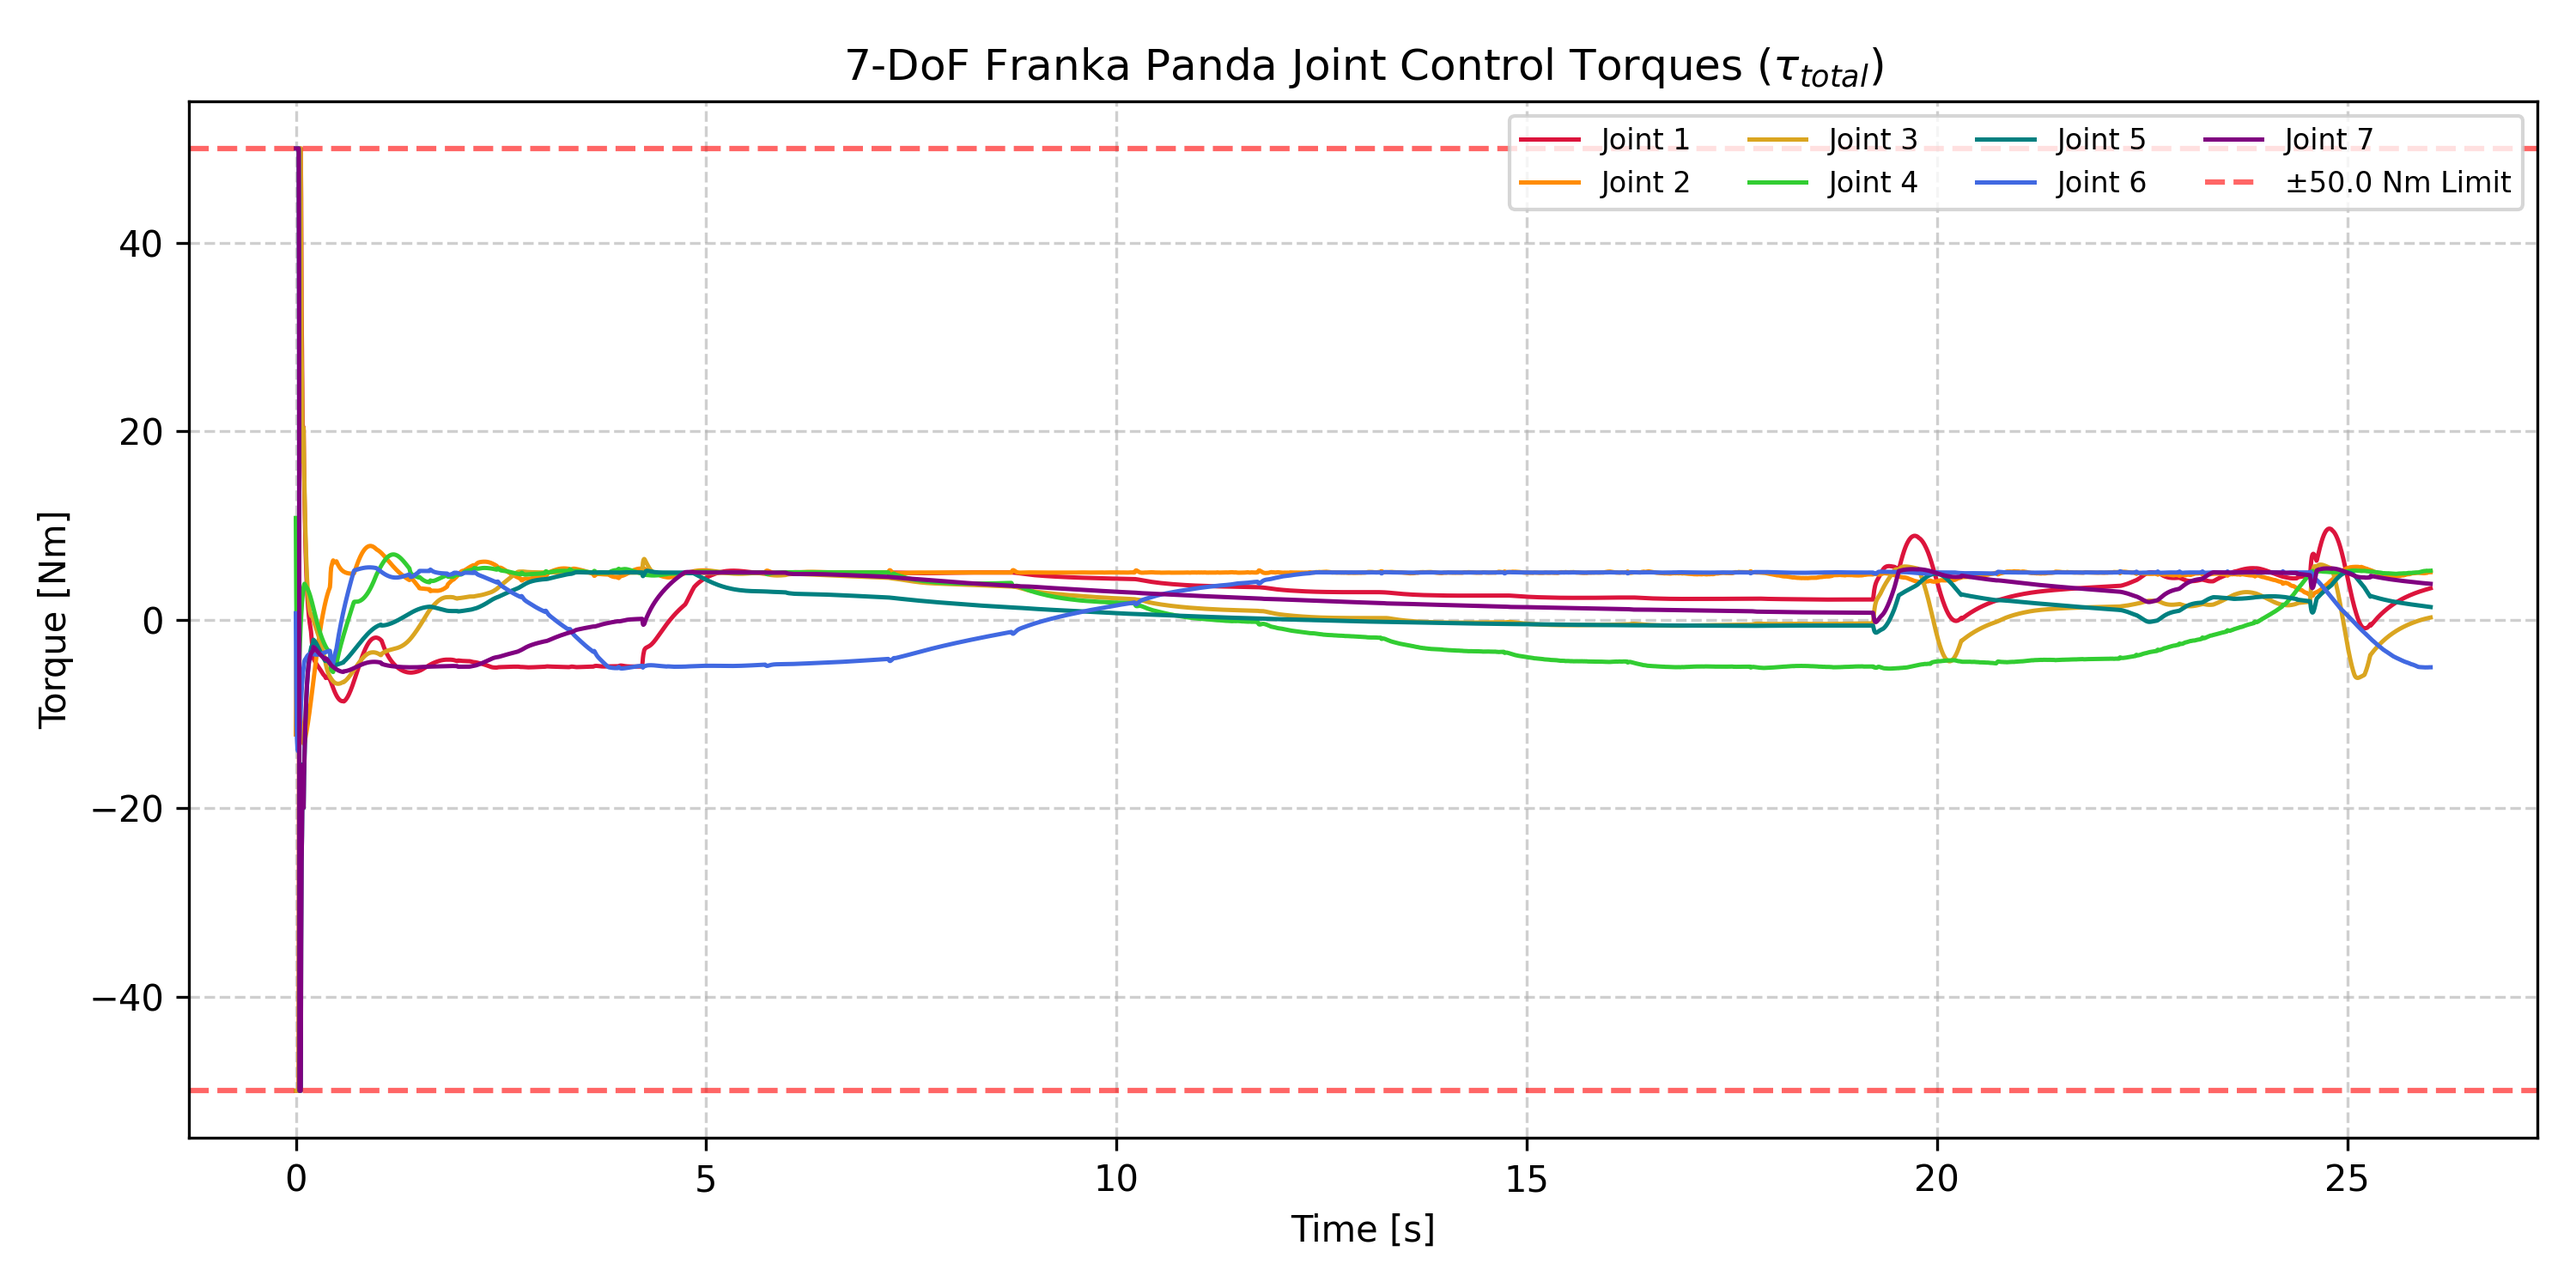
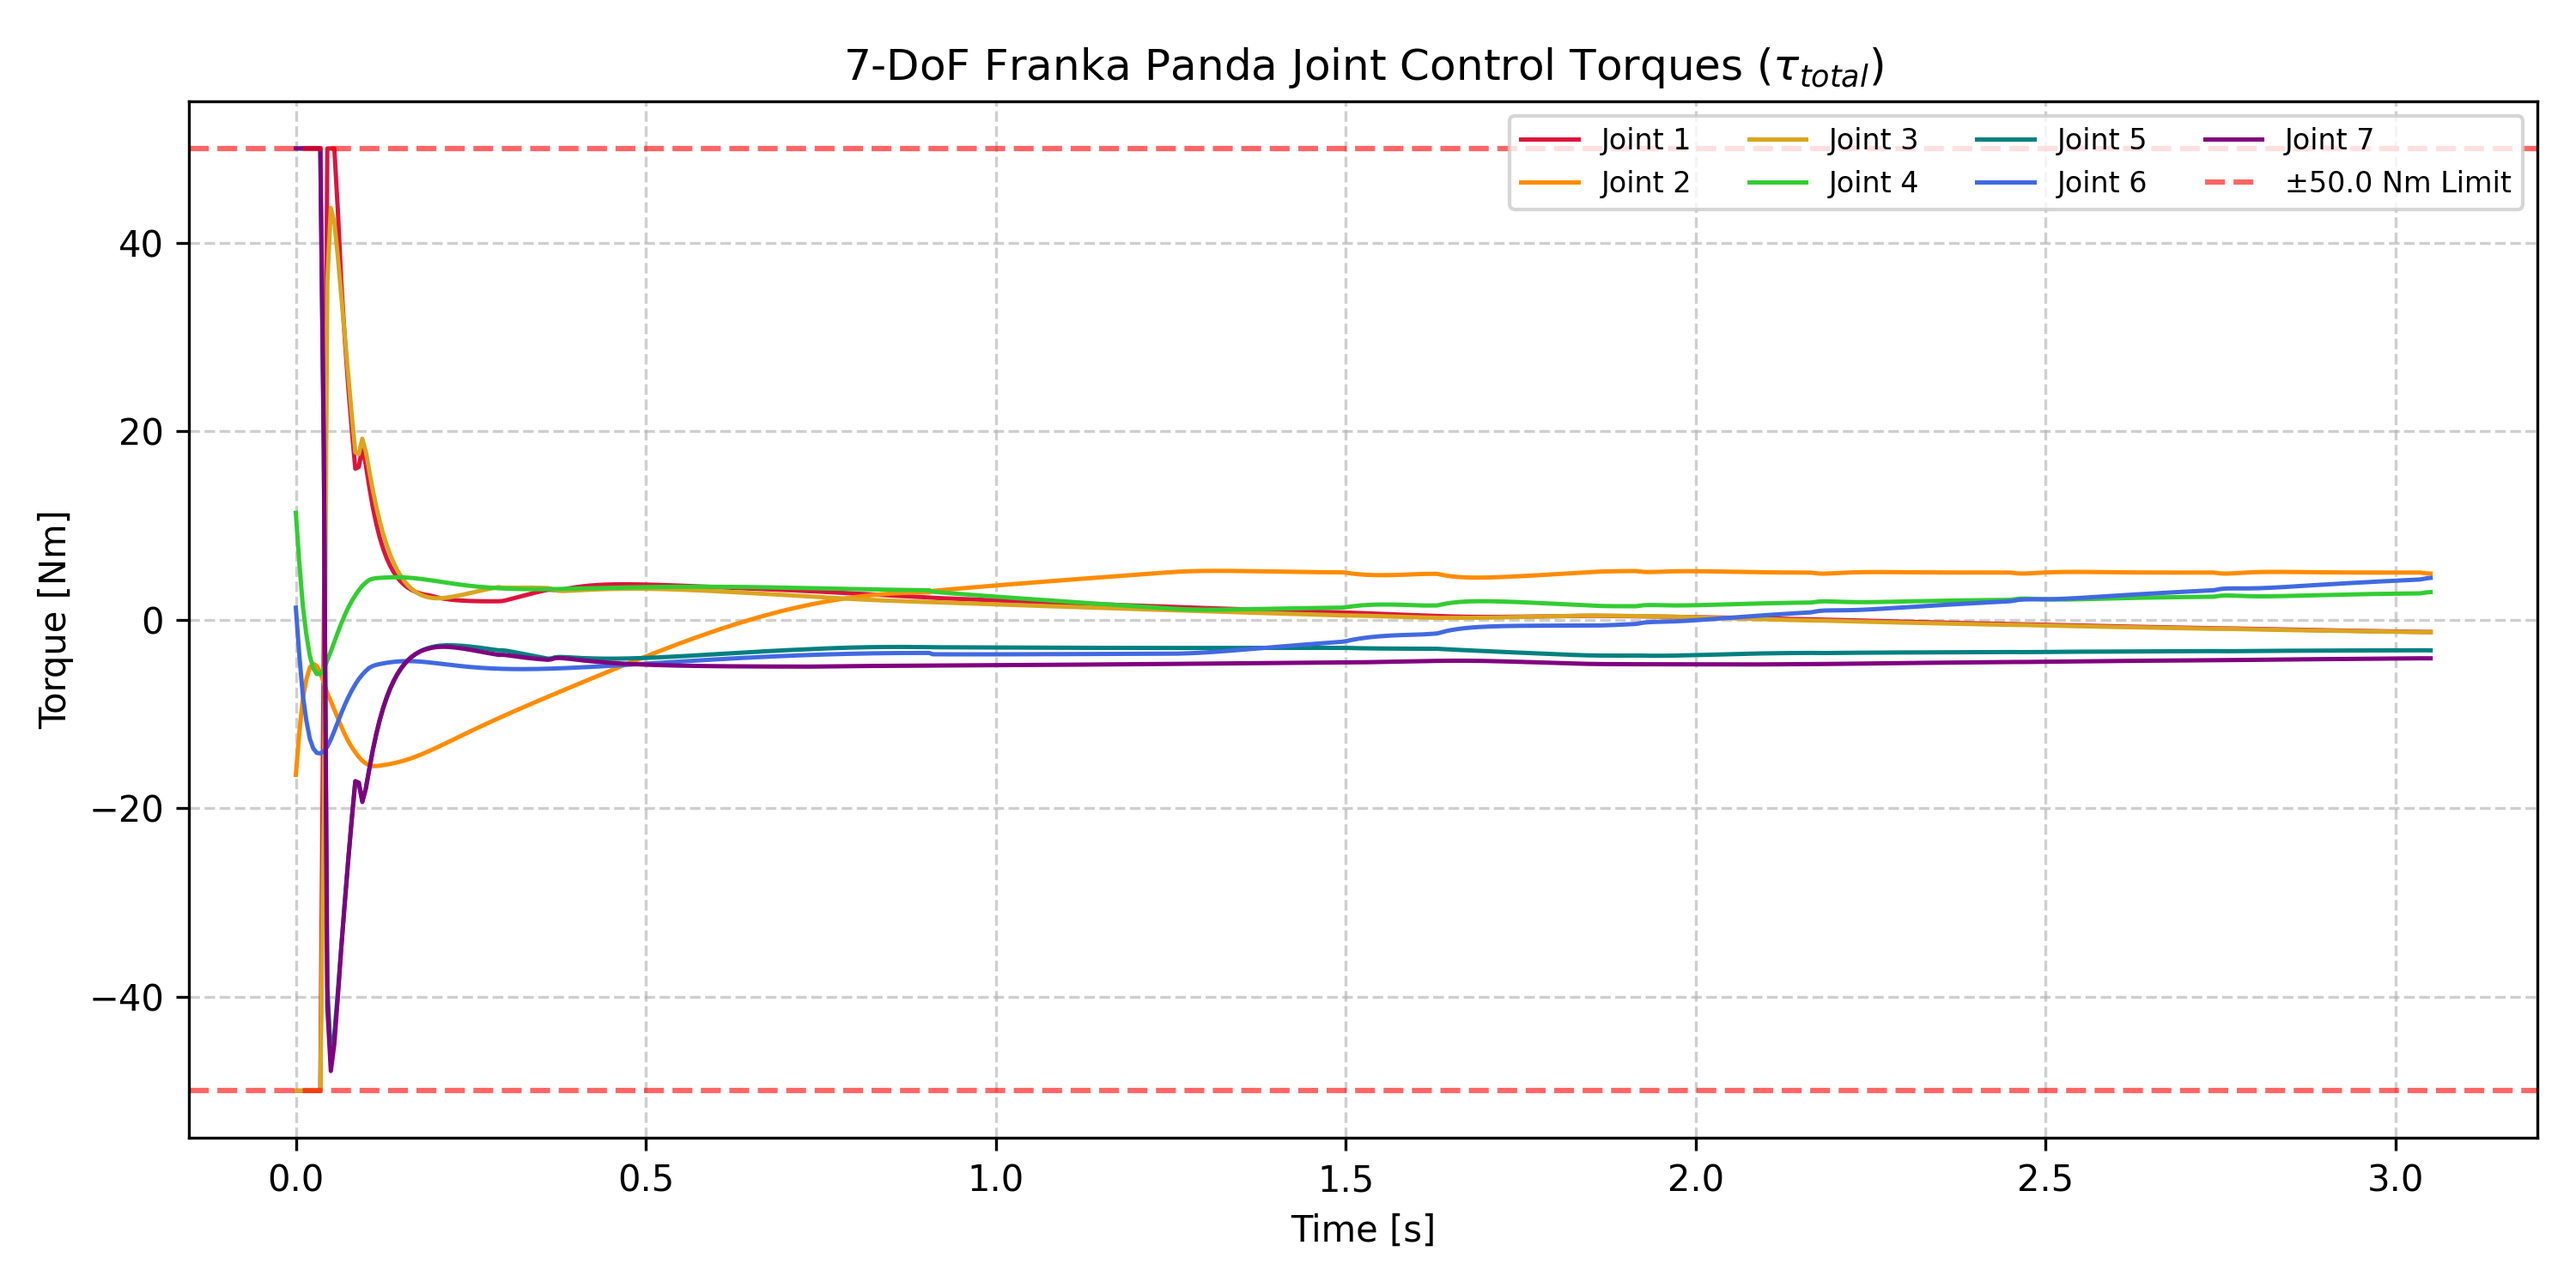
Rotational stiffness model added

diff --git a/CLF_CBF_controller_constant_force.py b/CLF_CBF_controller_constant_force.py
@@ -227,12 +227,12 @@ def get_operational_space_matrices(J, M):
     return Lambda, J_bar, N
 
 # ------------------------------------------------------------------
-# 4. Controller Definition (Exact C++ Normal Contact Dynamics Step)
+# 4. Controller Definition (Exact 6D Stiffness QP Adaptation)
 # ------------------------------------------------------------------
 class Unified_CBF_CLF_Controller:
     """
-    Unified QP solver using OSQP matching C++ normal contact dynamic formulation:
-    Decision vector: y = [u_n, u_K_x, u_K_y, u_K_z, delta]^T
+    Unified QP solver using OSQP matching C++ 6D stiffness rate optimization:
+    Decision vector: y = [u_n, u_K_pos(3), u_K_ori(3), delta]^T  (8 Variables)
     """      
 
     def __init__(self, 
@@ -244,7 +244,7 @@ class Unified_CBF_CLF_Controller:
                  gamma_k=0.5,
                  p_gains=(10.0, 0.1),
                  w_slack=1e4,
-                 w_k=100,
+                 w_k=100.0,
                  surface_stiffness=400.0,
                  d_safe=0.003,
                  F_threshold=1.0,
@@ -277,7 +277,8 @@ class Unified_CBF_CLF_Controller:
         self.force_errors = []
         self.force_outputs = []
 
-        self.P_mat = sparse.csc_matrix(np.diag([1.0, self.w_k, self.w_k, self.w_k, self.w_slack]))
+        # P Hessian Matrix for 8 variables: y = [u_n, u_K_6d(6), delta]
+        self.P_mat = sparse.csc_matrix(np.diag([1.0] + [self.w_k] * 6 + [self.w_slack]))
         self.prob = osqp.OSQP()
         self.solver_initialized = False
 
@@ -286,10 +287,10 @@ class Unified_CBF_CLF_Controller:
                x_current, 
                x_desired, 
                normal_vec, 
-               Kp_curr, 
-               u_K_ref, 
-               K_min_vec, 
-               K_max_vec, 
+               Kp_curr_6d, 
+               u_K_ref_6d, 
+               K_min_6d, 
+               K_max_6d, 
                surface_point=None, 
                desired_penetration=0.003, 
                dt=0.005):
@@ -315,7 +316,8 @@ class Unified_CBF_CLF_Controller:
         
         # 3. Exact Normal Contact Dynamic Terms (Equations 35-39 from C++ controller)
         n_sq = n**2
-        K_n = max(10.0, float(np.dot(n_sq, Kp_curr)))
+        Kp_pos_curr = Kp_curr_6d[:3]
+        K_n = max(10.0, float(np.dot(n_sq, Kp_pos_curr)))
         K_s = self.Ks
         K_e = (K_s * K_n) / (K_s + K_n)
 
@@ -327,7 +329,7 @@ class Unified_CBF_CLF_Controller:
         v_s = 0.0  # Rigid surface assumption
         a_F = K_e
         b_F = (s_r * K_s * K_s / ((K_s + K_n) ** 2)) * n_sq
-        f_F = K_e * v_s + 2.0 * (s_r * K_s * K_s / ((K_s + K_n) ** 2)) * float(np.dot(n_dot, Kp_curr * n))
+        f_F = K_e * v_s + 2.0 * (s_r * K_s * K_s / ((K_s + K_n) ** 2)) * float(np.dot(n_dot, Kp_pos_curr * n))
 
         # 4. Strict CLF Lie Derivatives matching C++ formulation
         V_F = 0.5 * (self.p11 * e_F * e_F + 2.0 * self.p12 * e_F * e_I + self.p22 * e_I * e_I)
@@ -348,22 +350,23 @@ class Unified_CBF_CLF_Controller:
         distance_normal = float(np.dot(x_current - surface_point, n))
         h_P = distance_normal + self.d_safe
 
-        # 6. Linear cost vector: q = [0, -w_k * u_K_ref, 0]
-        q = np.concatenate([[0.0], -self.w_k * u_K_ref, [0.0]])
+        # Linear cost vector: q = [q_un, -w_k * u_K_ref_6d, 0]
+        q_un = -2.0 if not in_contact else 0.0  # Linear push downward in free space
+        q = np.concatenate([[q_un], -self.w_k * u_K_ref_6d, [0.0]])
 
-        # Construct Constraint Matrix A (l <= A * y <= u)
+        # Construct Constraint Matrix A (l <= A * y <= u) for 8 variables
         # Row 0: Relaxed Force CLF
-        row_clf = [Lgn_VF, LgK_VF[0], LgK_VF[1], LgK_VF[2], -1.0]
-        # Row 1: Upper Force CBF: -a_F * u_n - b_F . u_K >= f_F - gamma_f * h_F
-        row_force_cbf = [-a_F, -b_F[0], -b_F[1], -b_F[2], 0.0]
+        row_clf = [Lgn_VF, LgK_VF[0], LgK_VF[1], LgK_VF[2], 0.0, 0.0, 0.0, -1.0]
+        # Row 1: Upper Force CBF: -a_F * u_n - b_F . u_K_pos >= f_F - gamma_f * h_F
+        row_force_cbf = [-a_F, -b_F[0], -b_F[1], -b_F[2], 0.0, 0.0, 0.0, 0.0]
         # Row 2: Surface Penetration CBF: -u_n >= -gamma_p * h_P
-        row_pos_cbf = [-1.0, 0.0, 0.0, 0.0, 0.0]
+        row_pos_cbf = [-1.0, 0.0, 0.0, 0.0, 0.0, 0.0, 0.0, 0.0]
         # Row 3: Slack Non-Negativity: delta >= 0
-        row_slack = [0.0, 0.0, 0.0, 0.0, 1.0]
+        row_slack = [0.0, 0.0, 0.0, 0.0, 0.0, 0.0, 0.0, 1.0]
         # Row 4: Normal Velocity Command u_n Hard Box Bound
-        row_u_n = [1.0, 0.0, 0.0, 0.0, 0.0]
-        # Rows 5-7: Stiffness Rate Bounds (u_K)
-        stiff_A = np.hstack([np.zeros((3, 1)), np.eye(3), np.zeros((3, 1))])
+        row_u_n = [1.0, 0.0, 0.0, 0.0, 0.0, 0.0, 0.0, 0.0]
+        # Rows 5-10: 6D Stiffness Rate Bounds (u_K_pos and u_K_ori)
+        stiff_A = np.hstack([np.zeros((6, 1)), np.eye(6), np.zeros((6, 1))])
 
         A_dense = np.vstack([
             row_clf,
@@ -382,9 +385,12 @@ class Unified_CBF_CLF_Controller:
             -self.gamma_cbf_pos * h_P,
             0.0,
             -max_u_n,
-            -self.gamma_k * (Kp_curr[0] - K_min_vec[0]),
-            -self.gamma_k * (Kp_curr[1] - K_min_vec[1]),
-            -self.gamma_k * (Kp_curr[2] - K_min_vec[2])
+            -self.gamma_k * (Kp_curr_6d[0] - K_min_6d[0]),
+            -self.gamma_k * (Kp_curr_6d[1] - K_min_6d[1]),
+            -self.gamma_k * (Kp_curr_6d[2] - K_min_6d[2]),
+            -self.gamma_k * (Kp_curr_6d[3] - K_min_6d[3]),
+            -self.gamma_k * (Kp_curr_6d[4] - K_min_6d[4]),
+            -self.gamma_k * (Kp_curr_6d[5] - K_min_6d[5])
         ])
 
         u = np.array([
@@ -393,9 +399,12 @@ class Unified_CBF_CLF_Controller:
             np.inf,
             np.inf,
             max_u_n,
-            self.gamma_k * (K_max_vec[0] - Kp_curr[0]),
-            self.gamma_k * (K_max_vec[1] - Kp_curr[1]),
-            self.gamma_k * (K_max_vec[2] - Kp_curr[2])
+            self.gamma_k * (K_max_6d[0] - Kp_curr_6d[0]),
+            self.gamma_k * (K_max_6d[1] - Kp_curr_6d[1]),
+            self.gamma_k * (K_max_6d[2] - Kp_curr_6d[2]),
+            self.gamma_k * (K_max_6d[3] - Kp_curr_6d[3]),
+            self.gamma_k * (K_max_6d[4] - Kp_curr_6d[4]),
+            self.gamma_k * (K_max_6d[5] - Kp_curr_6d[5])
         ])
 
         # 7. Setup & Solve OSQP Problem
@@ -410,32 +419,28 @@ class Unified_CBF_CLF_Controller:
 
         if res.info.status == 'solved':
             u_n_opt = res.x[0]
-            u_K_opt = res.x[1:4]
+            u_K_opt = res.x[1:7]
         else:
-            u_n_opt = 0.0
-            u_K_opt = np.clip(u_K_ref, -self.gamma_k * (Kp_curr - K_min_vec), self.gamma_k * (K_max_vec - Kp_curr))
+            u_n_opt = 0.01 if not in_contact else 0.0
+            u_K_opt = np.clip(u_K_ref_6d, -self.gamma_k * (Kp_curr_6d - K_min_6d), self.gamma_k * (K_max_6d - Kp_curr_6d))
 
-        if not self.enable_u_n_opt:
-            u_n_opt = 0.0
-            self.downward_offset = 0.0
+        # Ensure minimum descent speed during free-space contact search
+        if not in_contact and u_n_opt < 0.005:
+            u_n_opt = 0.01  # [m/s] minimum approach rate
 
-        # -----------------------------------------------------------------
-        # Dynamic Offset Step Scaling Based on Contact Force
-        # -----------------------------------------------------------------
-        max_step_free = 0.0006     # Max step before contact (free space)
-        max_step_contact = 0.00007 # Min step under nominal contact force
+        # Dynamic Offset Step Scaling
+        max_step_free = 0.05     
+        max_step_contact = 0.007 
 
-        # Compute force ratio: 0.0 when at/below threshold, 1.0 when at desired force
         force_range = max(1e-3, self.desired_force - self.F_threshold)
         force_ratio = np.clip((measured_force - self.F_threshold) / force_range, 0.0, 1.0)
 
-        # Smoothly interpolate from free-space max step down to contact max step
         max_offset_step = max_step_free - force_ratio * (max_step_free - max_step_contact)
 
         offset_delta = np.clip(u_n_opt * safe_dt, -max_offset_step, max_offset_step)
         
         self.downward_offset += offset_delta
-        self.downward_offset = np.clip(self.downward_offset, 0.0, 0.65)
+        self.downward_offset = np.clip(self.downward_offset, 0.0, 1.65)
 
         self.force_errors.append(e_F)
         self.force_outputs.append(self.downward_offset)
@@ -447,6 +452,7 @@ class Unified_CBF_CLF_Controller:
 # ------------------------------------------------------------------
 # 5. Anisotropic (Per-Axis) Adaptive Gain Parameters
 # ------------------------------------------------------------------
+# Translational Parameters
 K_min_vec = np.array([200.0, 300.0, 300.0])  
 K_max_vec = np.array([1200.0, 1200.0, 1200.0])
 zeta_p_vec = np.array([0.05, 0.05, 0.05])    
@@ -455,10 +461,16 @@ alpha_gain_vec = np.array([500.0, 500.0, 500.0])
 lambda_decay_vec = np.array([0.2, 0.2, 0.2])
 beta_gain_vec = np.array([5000.0, 5000.0, 5000.0])  
 
-Kp_pos_vec = K_min_vec.copy()
+# Rotational Parameters (Matching C++ Setup)
+K_ori_min_vec = np.array([500.0, 500.0, 500.0])
+K_ori_max_vec = np.array([800.0, 800.0, 800.0])
+zeta_o_vec = np.array([0.1, 0.1, 0.1])
+eta_o_vec = np.array([2.0, 2.0, 2.0])
+alpha_ori_gain_vec = np.array([50.0, 50.0, 50.0])
+lambda_ori_decay_vec = np.array([0.1, 0.1, 0.1])
 
-Kp_ori_val = 800.0
-Kd_ori_val = 25.0 * np.sqrt(Kp_ori_val)
+Kp_pos_vec = K_min_vec.copy()
+Kp_ori_vec = K_ori_min_vec.copy()
 
 k_c = 20.0                 
 F_threshold = 0.2          
@@ -467,15 +479,15 @@ F_threshold = 0.2
 # 6. Initialize Controller & Loggers
 # ------------------------------------------------------------------
 force_ctrl = Unified_CBF_CLF_Controller(
-    desired_force=3.0,
-    max_allowed_force=5.0,
+    desired_force=1.0,
+    max_allowed_force=8.0,
     lambda_clf=0.5,
     gamma_cbf_force=1.0,
     gamma_cbf_pos=1.0,
     gamma_k=0.5,         
     p_gains=(10.0, 0.1),
     w_slack=1e4,
-    w_k=100             
+    w_k=100.0             
 )
 
 desired_force_list = []
@@ -580,50 +592,77 @@ try:
         force_ratio_term = (F_d - F_measured) / F_d
         desired_force_list.append(F_d)
 
-        u_K_ref = (
+        # Translational Reference Stiffness Rate
+        u_K_pos_ref = (
             -lambda_decay_vec * (Kp_pos_vec - K_min_vec)
             + (1.0 - gamma_vec) * alpha_gain_vec * growth_term
             + gamma_vec * beta_gain_vec * force_ratio_term
         )
 
-        u_K_ref_list.append(u_K_ref.copy())
+        # Rotational Reference Stiffness Rate (Equation matching C++)
+        ori_error = T.get_orientation_error(q_desired, quat_current)
+        e_o_abs = np.abs(ori_error)
+        ori_scaled_error = (e_o_abs / zeta_o_vec) ** eta_o_vec
+        ori_growth_term = np.log(1.0 + ori_scaled_error)
+
+        u_K_ori_ref = (
+            -lambda_ori_decay_vec * (Kp_ori_vec - K_ori_min_vec)
+            + alpha_ori_gain_vec * ori_growth_term
+        )
+
+        u_K_ref_6d = np.concatenate([u_K_pos_ref, u_K_ori_ref])
+        Kp_curr_6d = np.concatenate([Kp_pos_vec, Kp_ori_vec])
+        K_min_6d = np.concatenate([K_min_vec, K_ori_min_vec])
+        K_max_6d = np.concatenate([K_max_vec, K_ori_max_vec])
+
+        u_K_ref_list.append(u_K_ref_6d.copy())
 
         ee_force_world = ee_wrench_world[:3]
 
         # ----------------------------------------------------------
         # 3. Unified QP Solve along End-Effector Normal
         # ----------------------------------------------------------
-        pos_offset_3d, u_K_opt = force_ctrl.update(
+        pos_offset_3d, u_K_opt_6d = force_ctrl.update(
             current_force=ee_force_world,
             x_current=x_current,
             x_desired=x_desired,
             normal_vec=normal_vec,
-            Kp_curr=Kp_pos_vec,
-            u_K_ref=u_K_ref,
-            K_min_vec=K_min_vec,
-            K_max_vec=K_max_vec,
+            Kp_curr_6d=Kp_curr_6d,
+            u_K_ref_6d=u_K_ref_6d,
+            K_min_6d=K_min_6d,
+            K_max_6d=K_max_6d,
             surface_point=x_desired,       
             desired_penetration=0.003,    
             dt=dt_step
         )
 
-        u_K_opt_list.append(u_K_opt.copy())
+        u_K_opt_list.append(u_K_opt_6d.copy())
         force_correction_list.append(np.linalg.norm(pos_offset_3d))
         force_error_list.append(force_ctrl.force_errors[-1] if force_ctrl.force_errors else 0)
         position_offset_list.append(np.linalg.norm(pos_offset_3d))
 
         x_desired_modified = x_desired + pos_offset_3d
 
-        Kp_pos_vec += u_K_opt * dt_step
+        # Rate Saturation Clamping (Matching C++ Integration Step)
+        max_k_step_pos = 300.0 * dt_step
+        max_k_step_ori = 50.0 * dt_step
+
+        delta_K_pos = np.clip(u_K_opt_6d[:3] * dt_step, -max_k_step_pos, max_k_step_pos)
+        delta_K_ori = np.clip(u_K_opt_6d[3:] * dt_step, -max_k_step_ori, max_k_step_ori)
+
+        Kp_pos_vec += delta_K_pos
+        Kp_ori_vec += delta_K_ori
+
         Kd_pos_vec = 20.0 * np.sqrt(Kp_pos_vec)
+        Kd_ori_vec = 20.0 * np.sqrt(Kp_ori_vec)
 
         kp_pos_list.append(Kp_pos_vec.copy())
-        kp_ori_list.append(np.array([Kp_ori_val, Kp_ori_val, Kp_ori_val]))  
+        kp_ori_list.append(Kp_ori_vec.copy())  
 
         Kp_pos = np.diag(Kp_pos_vec)
         Kd_pos = np.diag(Kd_pos_vec)
-        Kp_ori = np.diag([Kp_ori_val, Kp_ori_val, Kp_ori_val])
-        Kd_ori = np.diag([Kd_ori_val, Kd_ori_val, Kd_ori_val])
+        Kp_ori = np.diag(Kp_ori_vec)
+        Kd_ori = np.diag(Kd_ori_vec)
 
         Kp = np.block([[Kp_pos, np.zeros((3, 3))], [np.zeros((3, 3)), Kp_ori]])
         Kd = np.block([[Kd_pos, np.zeros((3, 3))], [np.zeros((3, 3)), Kd_ori]])
@@ -632,7 +671,6 @@ try:
         # 4. Impedance Control & Actuation
         # ----------------------------------------------------------
         pos_error = x_desired_modified - x_current
-        ori_error = T.get_orientation_error(q_desired, quat_current)
         cartesian_error = np.concatenate([pos_error, ori_error])
 
         desired_pos_list.append(x_desired.copy())
@@ -649,7 +687,7 @@ try:
         M_q, h_q = get_joint_dynamics(robot)
         Lambda, J_bar, N = get_operational_space_matrices(J, M_q)
 
-        K_null = 3.0 * np.eye(robot.dof)
+        K_null = 500.0 * np.eye(robot.dof)
         tau_null = N @ (-K_null @ dq)
 
         F_task = Kp @ cartesian_error - Kd @ dx
@@ -706,7 +744,7 @@ if len(actual_pos_list) > 0:
     tau_joints_arr = np.atleast_2d(np.array(tau_joints_list))  
 
     time_steps = np.arange(len(actual_pos)) * 0.005
-    kp_ref_integrated = K_min_vec + np.cumsum(u_K_ref_arr * dt_step, axis=0)
+    kp_ref_integrated = K_min_6d + np.cumsum(u_K_ref_arr * dt_step, axis=0)
 
     fig1, axes = plt.subplots(9, 1, figsize=(10, 27), sharex=True)
     
